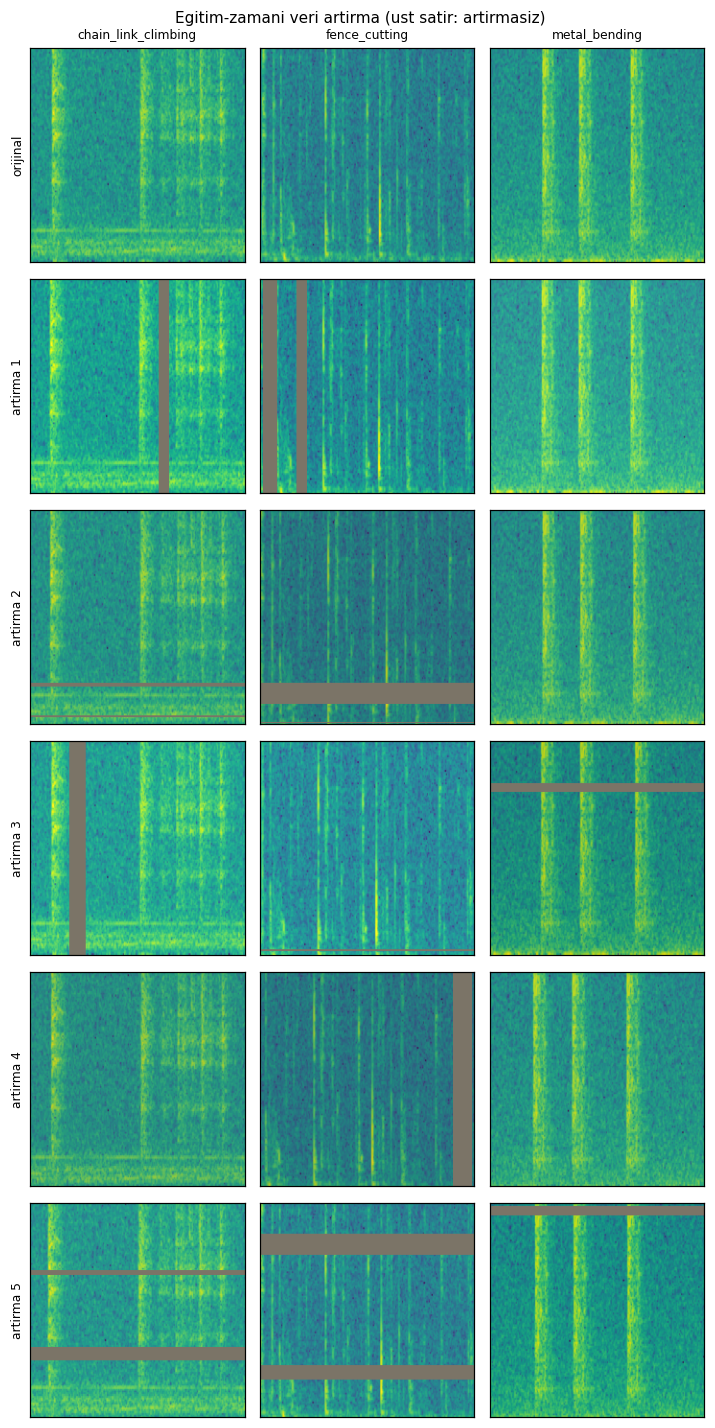
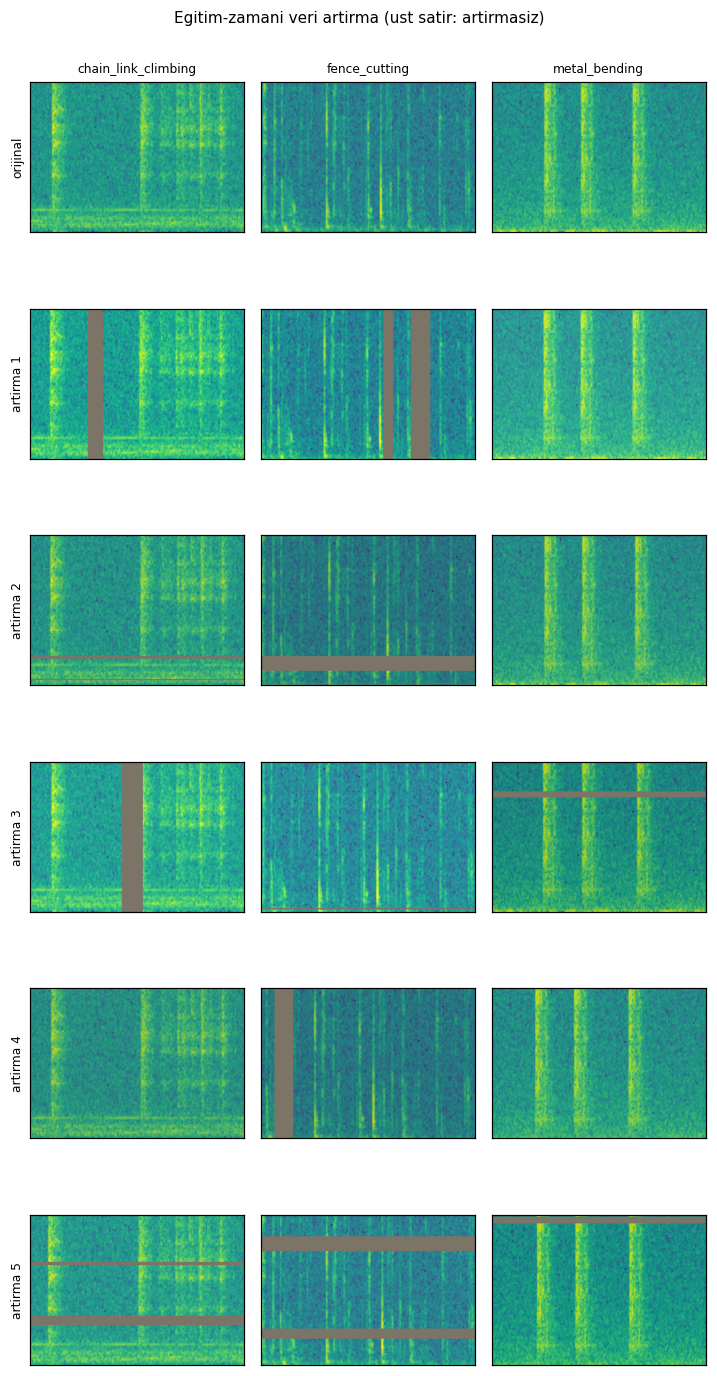
Paket 2: BatchNorm, label smoothing 0.1, girdi 224x320 (frekans x zaman)

diff --git a/src/model.py b/src/model.py
@@ -6,13 +6,13 @@ Journal 25(22)) uyarlanmistir: makalenin girdisi (B,1,4000,10) zaman-uzay
 matrisiydi, bizimki spektrogram goruntusu. Omurga ayni, sadece girdi kanali
 ve boyutu degisti.
 
-    Girdi (B,3,224,224)
-      -> Conv(3->16,3x3) + ReLU + MaxPool2  -> (B,16,112,112)
-      -> Conv(16->32,3x3) + ReLU + MaxPool2 -> (B,32,56,56)
-      -> Conv(32->64,3x3) + ReLU + MaxPool2 -> (B,64,28,28)
-      -> Dikkat modulu (SK / SE / CBAM / yok) -> (B,64,28,28)
-      -> AdaptiveAvgPool2d(1) -> Flatten     -> (B,64)      [t-SNE ozelligi]
-      -> Dropout(0.5) -> Linear(64->3)       -> (B,3)       [logit]
+    Girdi (B,3,224,320)                     [dikey=FREKANS, yatay=ZAMAN]
+      -> Conv(3->16,3x3) +BN+ ReLU + MaxPool2  -> (B,16,112,160)
+      -> Conv(16->32,3x3) +BN+ ReLU + MaxPool2 -> (B,32,56,80)
+      -> Conv(32->64,3x3) +BN+ ReLU + MaxPool2 -> (B,64,28,40)
+      -> Dikkat modulu (SK / SE / CBAM / yok)  -> (B,64,28,40)
+      -> AdaptiveAvgPool2d(1) -> Flatten       -> (B,64)    [t-SNE ozelligi]
+      -> Dropout(0.5) -> Linear(64->3)         -> (B,3)     [logit]
 
 PLANDA BELIRTILMEYEN, BURADA VERILEN KARARLAR
 ---------------------------------------------
@@ -184,18 +184,25 @@ class DASNet(nn.Module):
 
     def __init__(self, n_classes=cfg.N_CLASSES, in_channels=cfg.IN_CHANNELS,
                  channels=cfg.CONV_CHANNELS, attention="sk",
-                 dropout=cfg.DROPOUT):
+                 dropout=cfg.DROPOUT, batchnorm=cfg.BACKBONE_BATCHNORM):
         super().__init__()
         if attention not in ATTENTIONS:
             raise ValueError(f"bilinmeyen dikkat modulu: {attention!r} "
                              f"(secenekler: {sorted(ATTENTIONS)})")
         self.attention_name = attention
+        self.batchnorm = batchnorm
 
-        # PLAN 6.1: Conv + ReLU + MaxPool x3. Omurgada BatchNorm YOK (bkz. modul basi).
+        # PLAN 6.1: Conv + ReLU + MaxPool x3.
+        # PAKET 2 / B1: araya BatchNorm2d eklendi (batchnorm=False ile eski
+        # plan-harfi davranisa donulebilir -- ablasyon icin).
+        # BN kendi kaydirma terimini tasidigi icin conv bias'i gereksiz.
         blocks, c_in = [], in_channels
         for c_out in channels:
+            blocks.append(nn.Conv2d(c_in, c_out, kernel_size=3, stride=1,
+                                    padding=1, bias=not batchnorm))
+            if batchnorm:
+                blocks.append(nn.BatchNorm2d(c_out))
             blocks += [
-                nn.Conv2d(c_in, c_out, kernel_size=3, stride=1, padding=1),
                 nn.ReLU(inplace=True),
                 nn.MaxPool2d(kernel_size=2, stride=2),
             ]
@@ -281,9 +288,10 @@ def self_test():
     print(f"  [x] Agirliklar kanal basina farklilasiyor (dinamik secim aktif)")
 
     # === 2) Tam model, ileri gecis ===
-    print(f"\n[2] Tam model ileri gecisi -- girdi (2, 3, 224, 224)")
+    print(f"\n[2] Tam model ileri gecisi -- girdi "
+          f"(2, {cfg.IN_CHANNELS}, {cfg.INPUT_H}, {cfg.INPUT_W})")
     print(line)
-    img = torch.randn(2, cfg.IN_CHANNELS, cfg.INPUT_SIZE, cfg.INPUT_SIZE)
+    img = torch.randn(2, cfg.IN_CHANNELS, cfg.INPUT_H, cfg.INPUT_W)
     for name in ["none", "sk", "se", "cbam"]:
         m = DASNet(attention=name).eval()
         with torch.no_grad():
@@ -305,16 +313,18 @@ def self_test():
     m = DASNet(attention="sk").eval()
     h = img
     print(f"  {'girdi':<28} {tuple(h.shape)}")
+    n_block = 0
     with torch.no_grad():
-        for i, layer in enumerate(m.features):
+        for layer in m.features:
             h = layer(h)
             if isinstance(layer, nn.MaxPool2d):
-                print(f"  {'blok ' + str(i // 3 + 1) + ' sonrasi':<28} {tuple(h.shape)}")
-        expected = (2, 64, 28, 28)
+                n_block += 1
+                print(f"  {'blok ' + str(n_block) + ' sonrasi':<28} {tuple(h.shape)}")
+        # Uc havuzlama -> her eksen 8'e bolunur
+        expected = (2, cfg.CONV_CHANNELS[-1], cfg.INPUT_H // 8, cfg.INPUT_W // 8)
         _check(tuple(h.shape) == expected,
-               f"omurga cikti sekli {tuple(h.shape)}, {expected} bekleniyordu "
-               f"(PLAN 6.1 blogu)")
-        print(f"  {'-> SK modulune giren':<28} {tuple(h.shape)}   PLAN 6.1 ile uyumlu")
+               f"omurga cikti sekli {tuple(h.shape)}, {expected} bekleniyordu")
+        print(f"  {'-> SK modulune giren':<28} {tuple(h.shape)}")
 
     # === 4) Parametre butcesi ===
     print(f"\n[4] Parametre sayisi")

diff --git a/src/train.py b/src/train.py
@@ -183,7 +183,8 @@ def plot_curves(history, path, title):
 
 def train_fold(fold_idx, attention, df, cache, device, max_epochs,
                batch_size=cfg.BATCH_SIZE, patience=cfg.EARLY_STOP_PATIENCE,
-               monitor="macro_f1", verbose=True):
+               monitor="macro_f1", batchnorm=cfg.BACKBONE_BATCHNORM,
+               label_smoothing=cfg.LABEL_SMOOTHING, verbose=True):
     """Tek bir katmani sifirdan egitir. Donen: history sozlugu."""
     # PLAN 7.5: tohum her katmanda AYNI -- katman varyansi veriden gelsin
     set_deterministic(cfg.SEED)
@@ -193,8 +194,10 @@ def train_fold(fold_idx, attention, df, cache, device, max_epochs,
     (tr, va, te), fold, df, cache = make_loaders(
         fold_idx, df=df, cache=cache, batch_size=batch_size, verbose=False)
 
-    model = DASNet(attention=attention).to(device)
-    criterion = nn.CrossEntropyLoss()          # PLAN 7.3: siniflar dengeli, agirlik yok
+    model = DASNet(attention=attention, batchnorm=batchnorm).to(device)
+    # PLAN 7.3: siniflar dengeli, agirlik yok.
+    # PAKET 2 / B2: label smoothing -- "emin ve yanlis" tahminleri cezalandirir.
+    criterion = nn.CrossEntropyLoss(label_smoothing=label_smoothing)
     optimizer = torch.optim.Adam(model.parameters(), lr=cfg.LR,
                                  weight_decay=cfg.WEIGHT_DECAY)
     scheduler = torch.optim.lr_scheduler.ReduceLROnPlateau(
@@ -208,6 +211,8 @@ def train_fold(fold_idx, attention, df, cache, device, max_epochs,
               f"| test {len(te.dataset):>4} | atilan mixup {fold['n_dropped_mixup']}")
         print(f"  parametre {count_parameters(model):,} | batch {batch_size} "
               f"| maks epoch {max_epochs} | erken durdurma sabri {patience}")
+        print(f"  girdi {cfg.INPUT_H}x{cfg.INPUT_W} | BatchNorm "
+              f"{'acik' if batchnorm else 'KAPALI'} | label smoothing {label_smoothing}")
         print(f"  izlenen metrik: {mon_key} "
               f"({'buyugu' if mon_higher_better else 'kucugu'} iyi)")
         print(f"  {'ep':>4} {'lr':>9} {'tr_loss':>9} {'tr_acc':>8} "
@@ -321,6 +326,9 @@ def main():
     ap.add_argument("--monitor", default="macro_f1", choices=list(MONITORS),
                     help="erken durdurma/checkpoint neyi izlesin "
                          "(varsayilan macro_f1; 'loss' eski davranis)")
+    ap.add_argument("--no-batchnorm", action="store_true",
+                    help="omurgadaki BatchNorm'u kapat (PLAN 6.1 harfi, ablasyon)")
+    ap.add_argument("--label-smoothing", type=float, default=cfg.LABEL_SMOOTHING)
     ap.add_argument("--device", default=None, help="cuda / cpu (varsayilan: otomatik)")
     args = ap.parse_args()
 
@@ -328,10 +336,15 @@ def main():
     device = get_device(args.device)
     folds = list(range(cfg.N_SPLITS)) if args.fold == "all" else [int(args.fold)]
 
+    batchnorm = not args.no_batchnorm
     print("=" * 78)
     print(f"FAZ 3 -- EGITIM  |  dikkat={args.attention}  |  cihaz={device}")
     print(f"  izlenen metrik : {MONITORS[args.monitor][0]}   (PAKET 1 / A1)")
     print(f"  determinizm    : acik   (PAKET 1 / A3)")
+    print(f"  BatchNorm      : {'acik' if batchnorm else 'KAPALI'}   (PAKET 2 / B1)")
+    print(f"  label smoothing: {args.label_smoothing}   (PAKET 2 / B2)")
+    print(f"  girdi boyutu   : {cfg.INPUT_H}x{cfg.INPUT_W} "
+          f"(frekans x zaman)   (PAKET 2 / C1)")
     print("=" * 78)
     if device.type == "cpu":
         print("  NOT: CPU'da calisiyor. Tam egitim icin GPU (Colab) onerilir.")
@@ -345,7 +358,9 @@ def main():
                                   max_epochs=args.epochs,
                                   batch_size=args.batch_size,
                                   patience=args.patience,
-                                  monitor=args.monitor))
+                                  monitor=args.monitor,
+                                  batchnorm=batchnorm,
+                                  label_smoothing=args.label_smoothing))
 
     if len(results) > 1:
         print(f"\n{'=' * 78}")

diff --git a/src/config.py b/src/config.py
@@ -103,9 +103,34 @@ VAL_FRACTION = 0.15
 # ---------------------------------------------------------------
 # MODEL (PLAN Bolum 6)
 # ---------------------------------------------------------------
-INPUT_SIZE = 224            # 400x400 PNG -> 224x224
+# ---------------------------------------------------------------
+# GIRDI BOYUTU -- PAKET 2 / C1
+# ---------------------------------------------------------------
+# Spektrogramin GERCEK bilgi icerigi:
+#     10 s x 2000 Hz = 20.000 ornek, STFT n_fft=256 hop=64
+#     -> 129 frekans bini x 313 zaman cercevesi
+#
+# Ilk uygulamada 224x224 kullaniliyordu (PLAN 7.1). Frekans tarafinda sorun
+# yok (129 -> 224, bol bol yer var) ama ZAMAN tarafinda 313 cerceveyi 224
+# piksele sikistiriyorduk -- gercek cozunurlugun %28 altina iniyorduk.
+#
+# Olaylari ayiran sey buyuk olcude ZAMANLAMA orintusu (orn. metal_bending'in
+# uc ayri parlak darbesi ve aralarindaki bosluklar), o yuzden zaman eksenine
+# 320 piksel veriyoruz. Model AdaptiveAvgPool kullandigi icin mimari
+# degisikligi gerekmiyor; omurga cikisi (64, 28, 28) yerine (64, 28, 40) olur.
+INPUT_H = 224               # dikey = FREKANS  (129 bin -> 224, kayipsiz)
+INPUT_W = 320               # yatay = ZAMAN    (313 cerceve -> 320, kayipsiz)
+INPUT_SIZE = (INPUT_H, INPUT_W)
+
 IN_CHANNELS = 3             # viridis RGB
 CONV_CHANNELS = (16, 32, 64)
+
+# PAKET 2 / B1: omurgada BatchNorm.
+# PLAN 6.1 blogu harfiyen "Conv + ReLU + MaxPool" diyordu ve ilk uygulamada
+# BN yoktu (karar K2). Baseline katman 2'de val_loss 1.30'dan 3.48'e firladi --
+# normalizasyonsuz egitimin klasik kararsizligi. BN hem stabilize eder hem
+# batch istatistikleri uzerinden hafif duzenlilestirme saglar.
+BACKBONE_BATCHNORM = True
 SK_M = 2                    # dal sayisi
 SK_KERNELS = (3, 5)         # ablasyonda en iyi ikili
 SK_R = 16                   # sikistirma orani
@@ -130,6 +155,15 @@ MAX_EPOCHS = 100
 EARLY_STOP_PATIENCE = 10
 LR_PATIENCE = 5
 LR_FACTOR = 0.5
+
+# PAKET 2 / B2: label smoothing.
+# Kanit: test kayiplari 1.26-2.03 iken dogruluk ~0.60 -- model EMIN BIR SEKILDE
+# yanlis. Label smoothing hedefi [1,0,0] yerine [0.9,0.05,0.05] yapar, boylece
+# model olasiliklari 1.0'a itemez ve asiri guven cezalanir.
+# NOT: bu, kayip DEGERINI degistirir (sifira inemez), dolayisiyla val_loss
+# rakamlari onceki kosularla karsilastirilamaz. Model secimi macro-F1'e bagli
+# oldugu icin (PAKET 1 / A1) secimi etkilemez.
+LABEL_SMOOTHING = 0.1
 
 # ImageNet istatistikleri (PLAN 7.1)
 NORM_MEAN = (0.485, 0.456, 0.406)

diff --git a/src/dataset.py b/src/dataset.py
@@ -153,20 +153,27 @@ class SpecMasking(torch.nn.Module):
 # DONUSUMLER (PLAN 7.1 / 7.2)
 # ---------------------------------------------------------------
 def build_transforms(train):
-    """train=True -> PLAN 7.2 artirmalari; train=False -> sadece PLAN 7.1."""
+    """
+    train=True -> PLAN 7.2 artirmalari; train=False -> sadece PLAN 7.1.
+
+    Hedef boyut (INPUT_H, INPUT_W) = (224, 320) -- dikey frekans, yatay zaman
+    (PAKET 2 / C1, bkz. config.py). Kaynak PNG kare (400x400) oldugu icin
+    kirpma da KARE aliniyor (ratio=1.0) ve sonra hedefe esnetiliyor; boylece
+    egitim ve degerlendirme ayni geometrik donusumu goruyor.
+    """
     norm = v2.Normalize(mean=cfg.NORM_MEAN, std=cfg.NORM_STD)
     to_float = v2.ToDtype(torch.float32, scale=True)     # uint8 -> [0,1]
 
     if not train:
         return v2.Compose([
-            v2.Resize((cfg.INPUT_SIZE, cfg.INPUT_SIZE), antialias=True),
+            v2.Resize((cfg.INPUT_H, cfg.INPUT_W), antialias=True),
             to_float,
             norm,
         ])
 
     return v2.Compose([
         # NOT: yatay/dikey cevirme YOK -- spektrogramda fiziksel olarak anlamsiz
-        v2.RandomResizedCrop(cfg.INPUT_SIZE, scale=cfg.CROP_SCALE,
+        v2.RandomResizedCrop((cfg.INPUT_H, cfg.INPUT_W), scale=cfg.CROP_SCALE,
                              ratio=(1.0, 1.0), antialias=True),
         v2.ColorJitter(brightness=cfg.JITTER, contrast=cfg.JITTER),
         to_float,
@@ -328,7 +335,7 @@ def self_test():
         x, y = next(iter(dl))
         print(f"  {name:<11} x={tuple(x.shape)} {x.dtype}  "
               f"[{x.min():.2f}, {x.max():.2f}]   y={tuple(y.shape)} {y.dtype}")
-        assert x.shape[1:] == (3, cfg.INPUT_SIZE, cfg.INPUT_SIZE), \
+        assert x.shape[1:] == (3, cfg.INPUT_H, cfg.INPUT_W), \
             f"{name}: beklenmeyen girdi sekli {tuple(x.shape)}"
         assert y.min() >= 0 and y.max() < cfg.N_CLASSES, f"{name}: etiket araligi bozuk"
 
@@ -354,7 +361,7 @@ def self_test():
     print("-" * 74)
     torch.manual_seed(0)
     m = SpecMasking(max_frac=cfg.MASK_MAX_FRAC, n_masks=cfg.MASK_N, p=1.0)
-    probe = torch.ones(3, 224, 224)
+    probe = torch.ones(3, cfg.INPUT_H, cfg.INPUT_W)
     out = m(probe.clone())
     zero_frac = (out == 0).float().mean().item()
     print(f"  maskelenen piksel orani: {zero_frac:.1%} "
